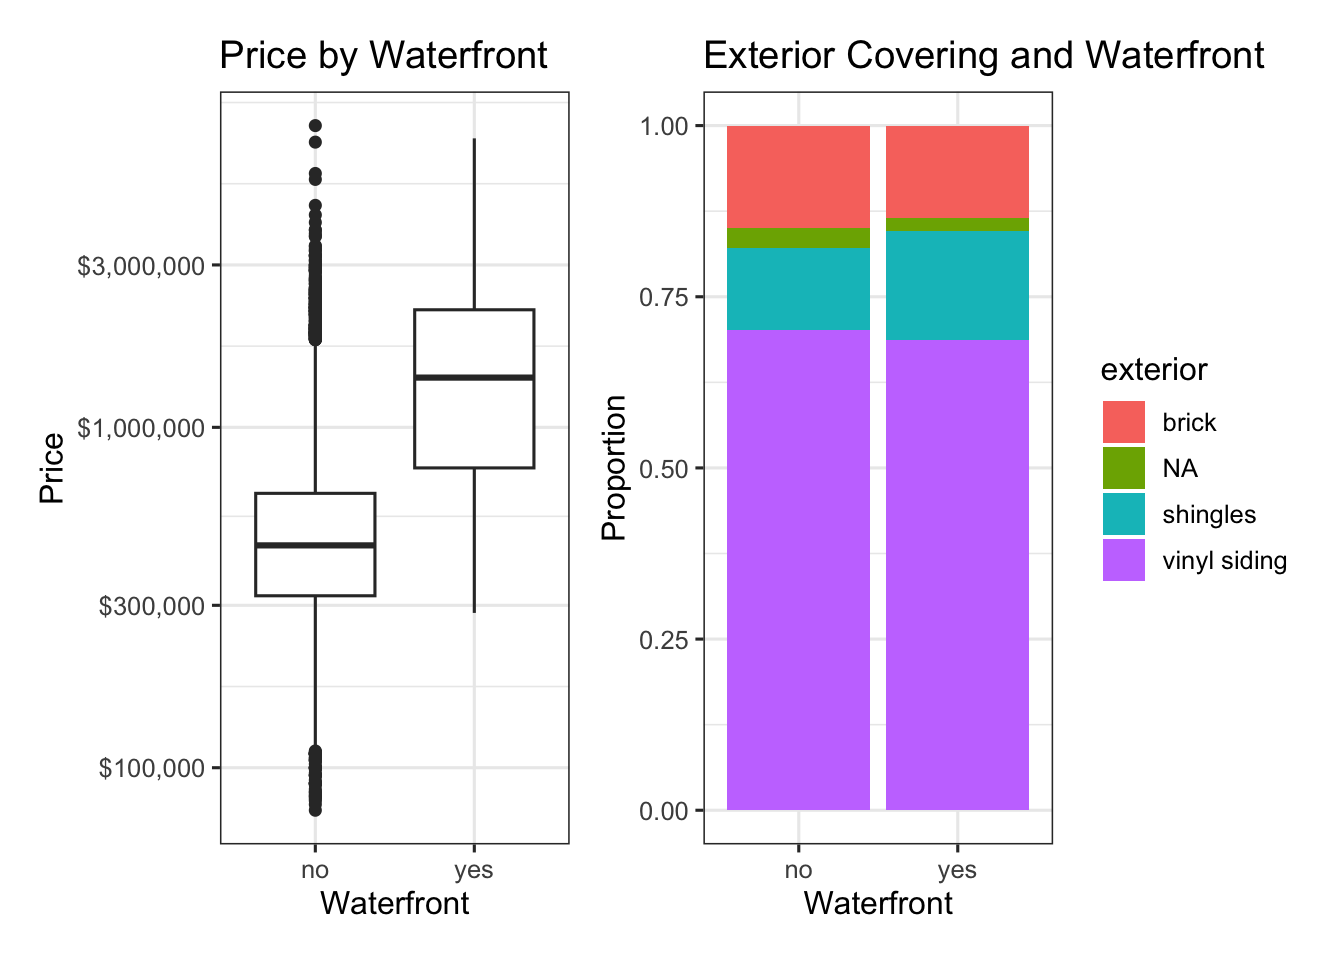
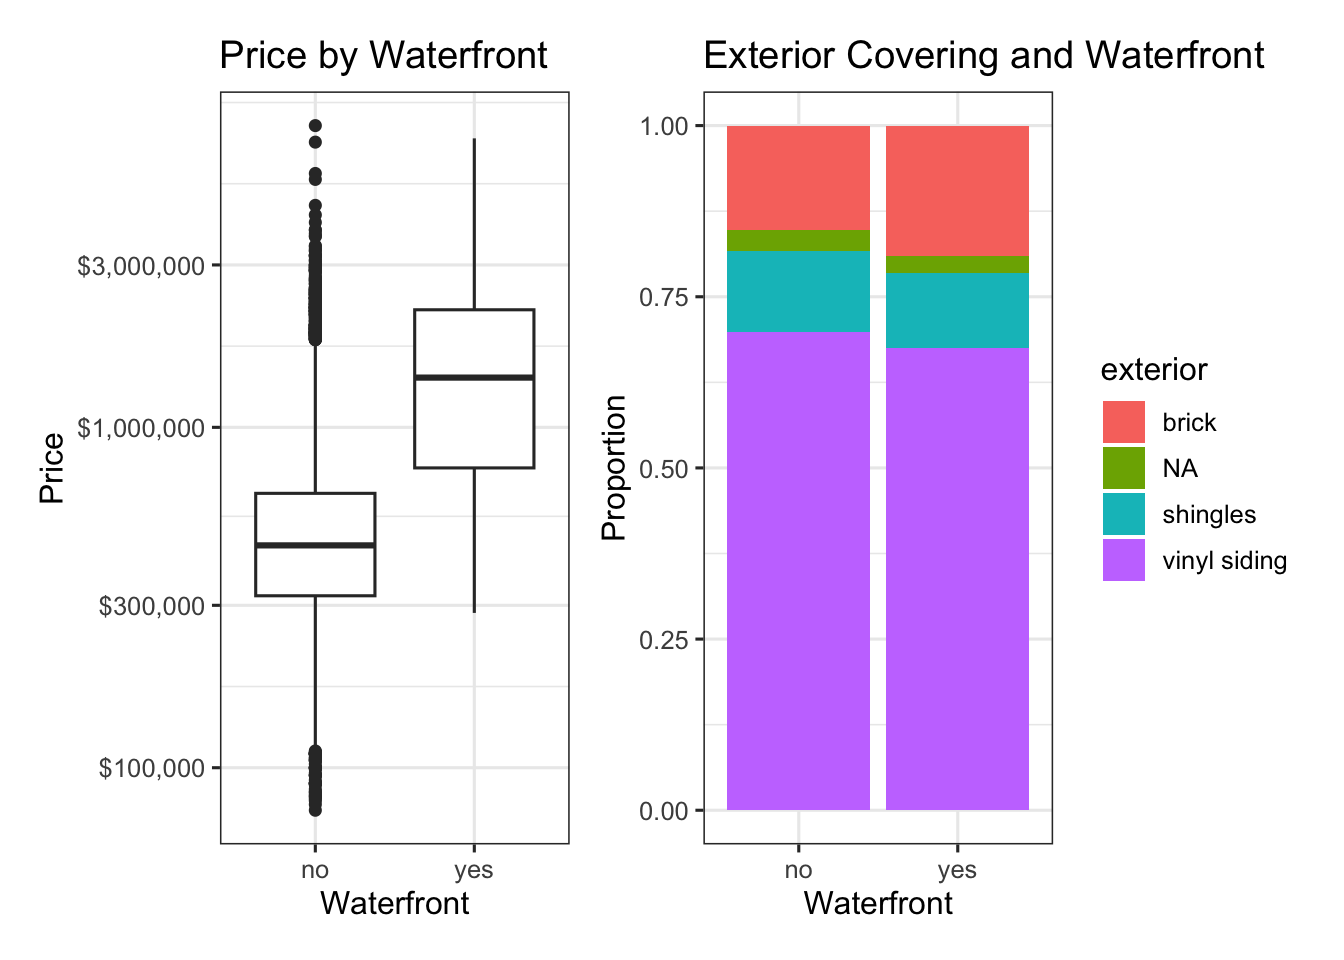
render topic 1 notebook with wcag a11y updates

Changed region(s): [[0.6562, 0.2188, 0.7812, 0.2812], [0.6562, 0.3438, 0.7812, 0.375]]

diff --git a/01_IntroToData.html b/01_IntroToData.html
@@ -104,6 +104,7 @@ window.Quarto = {
 };
 </script>
 
+<link rel="stylesheet" href="styles.css">
 </head>
 
 <body class="fullcontent">
@@ -137,7 +138,7 @@ window.Quarto = {
 
 </div>
 <script type="webr-1-contents">
[2 lines of base64/hex data omitted]
 </script>
 </div>
 </div>
@@ -147,7 +148,7 @@ eyJjb2RlIjoid2Vicjo6aW5zdGFsbChcImdyYWRldGhpc1wiLCBxdWlldCA9IFRSVUUpXG5saWJyYXJ5
 
 </div>
 <script type="webr-2-contents">
[2 lines of base64/hex data omitted]
 </script>
 </div>
 </div>
@@ -171,7 +172,7 @@ eyJjb2RlIjoiXG5saWJyYXJ5KGh0bWx0b29scylcbm9rX3Jlc3BvbnNlIDwtIGZ1bmN0aW9uKHJlc3Bv
 
 </div>
 <script type="webr-3-contents">
[2 lines of base64/hex data omitted]
 </script>
 </div>
 </div>
@@ -180,7 +181,7 @@ eyJjb2RlIjoiXG5ub3JtYWxpemVfY2hlY2tib3hfcmVzcG9uc2UgPC0gZnVuY3Rpb24oeCkge1xuICBy
 <div class="callout-icon-container">
 <i class="callout-icon"></i>
 </div>
-<div class="callout-title-container flex-fill">
+<div class="callout-title-container flex-fill" role="heading" aria-level="2">
 About
 </div>
 </div>
@@ -252,16 +253,16 @@ About
 <tbody>
 <tr class="odd">
 <td style="text-align: right;">7129300520</td>
-<td style="text-align: right;">11</td>
+<td style="text-align: right;">9</td>
 <td style="text-align: right;">221900</td>
 <td style="text-align: right;">1180</td>
 <td style="text-align: right;">5650</td>
 <td style="text-align: right;">0</td>
-<td style="text-align: left;">shingles</td>
+<td style="text-align: left;">brick</td>
 </tr>
 <tr class="even">
 <td style="text-align: right;">6414100192</td>
-<td style="text-align: right;">9</td>
+<td style="text-align: right;">11</td>
 <td style="text-align: right;">538000</td>
 <td style="text-align: right;">2570</td>
 <td style="text-align: right;">7242</td>
@@ -279,16 +280,16 @@ About
 </tr>
 <tr class="even">
 <td style="text-align: right;">2487200875</td>
-<td style="text-align: right;">5</td>
+<td style="text-align: right;">3</td>
 <td style="text-align: right;">604000</td>
 <td style="text-align: right;">1960</td>
 <td style="text-align: right;">5000</td>
 <td style="text-align: right;">0</td>
-<td style="text-align: left;">vinyl siding</td>
+<td style="text-align: left;">brick</td>
 </tr>
 <tr class="odd">
 <td style="text-align: right;">1954400510</td>
-<td style="text-align: right;">11</td>
+<td style="text-align: right;">3</td>
 <td style="text-align: right;">510000</td>
 <td style="text-align: right;">1680</td>
 <td style="text-align: right;">8080</td>
@@ -297,7 +298,7 @@ About
 </tr>
 <tr class="even">
 <td style="text-align: right;">7237550310</td>
-<td style="text-align: right;">9</td>
+<td style="text-align: right;">3</td>
 <td style="text-align: right;">1225000</td>
 <td style="text-align: right;">5420</td>
 <td style="text-align: right;">101930</td>
@@ -306,7 +307,7 @@ About
 </tr>
 <tr class="odd">
 <td style="text-align: right;">1321400060</td>
-<td style="text-align: right;">3</td>
+<td style="text-align: right;">11</td>
 <td style="text-align: right;">257500</td>
 <td style="text-align: right;">1715</td>
 <td style="text-align: right;">6819</td>
@@ -315,16 +316,16 @@ About
 </tr>
 <tr class="even">
 <td style="text-align: right;">2008000270</td>
-<td style="text-align: right;">6</td>
+<td style="text-align: right;">3</td>
 <td style="text-align: right;">291850</td>
 <td style="text-align: right;">1060</td>
 <td style="text-align: right;">9711</td>
 <td style="text-align: right;">0</td>
-<td style="text-align: left;">brick</td>
+<td style="text-align: left;">vinyl siding</td>
 </tr>
 <tr class="odd">
 <td style="text-align: right;">2414600126</td>
-<td style="text-align: right;">6</td>
+<td style="text-align: right;">10</td>
 <td style="text-align: right;">229500</td>
 <td style="text-align: right;">1780</td>
 <td style="text-align: right;">7470</td>
@@ -333,12 +334,12 @@ About
 </tr>
 <tr class="even">
 <td style="text-align: right;">3793500160</td>
-<td style="text-align: right;">4</td>
+<td style="text-align: right;">7</td>
 <td style="text-align: right;">323000</td>
 <td style="text-align: right;">1890</td>
 <td style="text-align: right;">6560</td>
 <td style="text-align: right;">0</td>
-<td style="text-align: left;">vinyl siding</td>
+<td style="text-align: left;">brick</td>
 </tr>
 </tbody>
 </table>
@@ -379,7 +380,7 @@ About
 <div class="callout-icon-container">
 <i class="callout-icon"></i>
 </div>
-<div class="callout-title-container flex-fill">
+<div class="callout-title-container flex-fill" role="heading" aria-level="2">
 Check Your Understanding: Numerical Variables
 </div>
 </div>
@@ -442,7 +443,7 @@ Check Your Understanding: Numerical Variables
 <div class="callout-icon-container">
 <i class="callout-icon"></i>
 </div>
-<div class="callout-title-container flex-fill">
+<div class="callout-title-container flex-fill" role="heading" aria-level="2">
 The <code>month</code> Variable as Non-Numeric
 </div>
 </div>
@@ -456,7 +457,7 @@ The <code>month</code> Variable as Non-Numeric
 <div class="callout-icon-container">
 <i class="callout-icon"></i>
 </div>
-<div class="callout-title-container flex-fill">
+<div class="callout-title-container flex-fill" role="heading" aria-level="2">
 Check Your Understanding: Categorical Variables
 </div>
 </div>
@@ -511,7 +512,7 @@ Check Your Understanding: Categorical Variables
 <div class="callout-icon-container">
 <i class="callout-icon"></i>
 </div>
-<div class="callout-title-container flex-fill">
+<div class="callout-title-container flex-fill" role="heading" aria-level="2">
 Check Your Understanding: Unique Identifiers
 </div>
 </div>
@@ -567,7 +568,7 @@ Check Your Understanding: Unique Identifiers
 <div class="callout-icon-container">
 <i class="callout-icon"></i>
 </div>
-<div class="callout-title-container flex-fill">
+<div class="callout-title-container flex-fill" role="heading" aria-level="2">
 Tip
 </div>
 </div>
@@ -594,7 +595,7 @@ Tip
 <div class="callout-icon-container">
 <i class="callout-icon"></i>
 </div>
-<div class="callout-title-container flex-fill">
+<div class="callout-title-container flex-fill" role="heading" aria-level="2">
 Check Your Understanding: Associations
 </div>
 </div>
@@ -645,7 +646,7 @@ Check Your Understanding: Associations
 <div class="callout-icon-container">
 <i class="callout-icon"></i>
 </div>
-<div class="callout-title-container flex-fill">
+<div class="callout-title-container flex-fill" role="heading" aria-level="2">
 Check Your Understanding: Independence
 </div>
 </div>
@@ -696,7 +697,7 @@ Check Your Understanding: Independence
 <div class="callout-icon-container">
 <i class="callout-icon"></i>
 </div>
-<div class="callout-title-container flex-fill">
+<div class="callout-title-container flex-fill" role="heading" aria-level="2">
 Check Your Understanding: Correlation
 </div>
 </div>
@@ -747,7 +748,7 @@ Check Your Understanding: Correlation
 <div class="callout-icon-container">
 <i class="callout-icon"></i>
 </div>
-<div class="callout-title-container flex-fill">
+<div class="callout-title-container flex-fill" role="heading" aria-level="2">
 Directionality of Associations
 </div>
 </div>
@@ -778,7 +779,7 @@ Directionality of Associations
 <div class="callout-icon-container">
 <i class="callout-icon"></i>
 </div>
-<div class="callout-title-container flex-fill">
+<div class="callout-title-container flex-fill" role="heading" aria-level="2">
 Check Your Understanding: Associations II
 </div>
 </div>
@@ -829,7 +830,7 @@ Check Your Understanding: Associations II
 <div class="callout-icon-container">
 <i class="callout-icon"></i>
 </div>
-<div class="callout-title-container flex-fill">
+<div class="callout-title-container flex-fill" role="heading" aria-level="2">
 Major Questions In Statistics
 </div>
 </div>
@@ -848,7 +849,7 @@ Major Questions In Statistics
 <div class="callout-icon-container">
 <i class="callout-icon"></i>
 </div>
-<div class="callout-title-container flex-fill">
+<div class="callout-title-container flex-fill" role="heading" aria-level="2">
 Critical Takeaway
 </div>
 </div>
@@ -922,7 +923,7 @@ Critical Takeaway
 <div class="callout-icon-container">
 <i class="callout-icon"></i>
 </div>
-<div class="callout-title-container flex-fill">
+<div class="callout-title-container flex-fill" role="heading" aria-level="2">
 Question Hash
 </div>
 </div>
@@ -1024,7 +1025,7 @@ Question Hash
 <div class="callout-icon-container">
 <i class="callout-icon"></i>
 </div>
-<div class="callout-title-container flex-fill">
+<div class="callout-title-container flex-fill" role="heading" aria-level="2">
 Exercise Hash
 </div>
 </div>
@@ -1040,7 +1041,7 @@ Exercise Hash
 <div class="callout-icon-container">
 <i class="callout-icon"></i>
 </div>
-<div class="callout-title-container flex-fill">
+<div class="callout-title-container flex-fill" role="heading" aria-level="2">
 Main Takeaways
 </div>
 </div>
@@ -1060,7 +1061,7 @@ Main Takeaways
 <div class="callout-icon-container">
 <i class="callout-icon"></i>
 </div>
-<div class="callout-title-container flex-fill">
+<div class="callout-title-container flex-fill" role="heading" aria-level="2">
 Looking Ahead
 </div>
 </div>
@@ -1075,10 +1076,10 @@ Looking Ahead
 <p>[1] House Sales in King County, USA (2016). Kaggle. Retrieved from <a href="https://www.kaggle.com/datasets/harlfoxem/housesalesprediction">Kaggle House Sales Dataset</a>.</p>
 <p>[2] Wickham, H. (2016). ggplot2: Elegant graphics for data analysis [Diamonds Dataset]. Springer-Verlag New York. https://ggplot2.tidyverse.org/</p>
 <script type="webr-data">
[2 lines of base64/hex data omitted]
 </script>
 <script type="ojs-module-contents">
[2 lines of base64/hex data omitted]
 </script>
 <div id="exercise-loading-indicator" class="exercise-loading-indicator d-none d-flex align-items-center gap-2">
 <div id="exercise-loading-status" class="d-flex gap-2">
@@ -1095,6 +1096,18 @@ W10=
 
 </main>
 <!-- /main column -->
+<script>
+document.addEventListener("DOMContentLoaded", function () {
+  document.querySelectorAll('a[target="_blank"]').forEach(function (link) {
+    if (!link.querySelector(".visually-hidden")) {
+      var note = document.createElement("span");
+      note.className = "visually-hidden";
+      note.textContent = " (opens in a new tab)";
+      link.appendChild(note);
+    }
+  });
+});
+</script>
 <script type="ojs-module-contents">
[1 lines of base64/hex data omitted]
 </script>